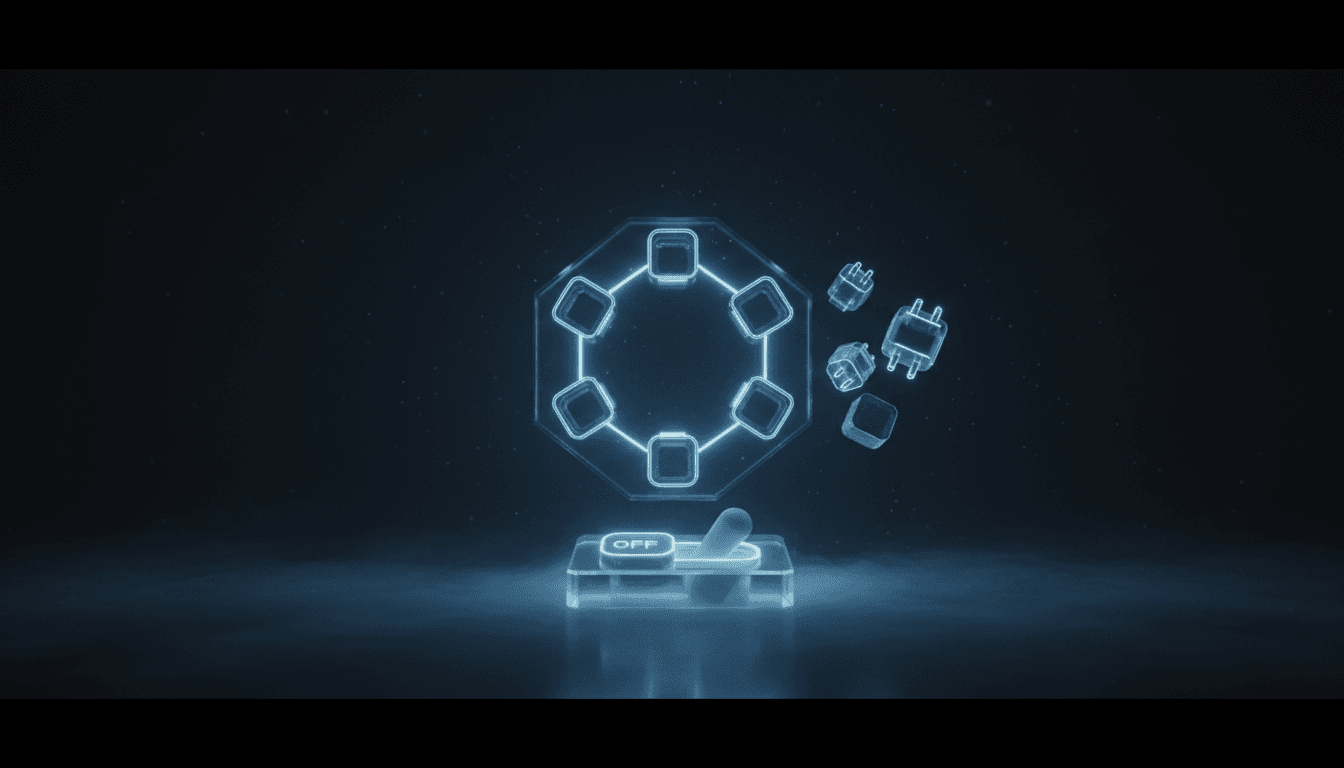
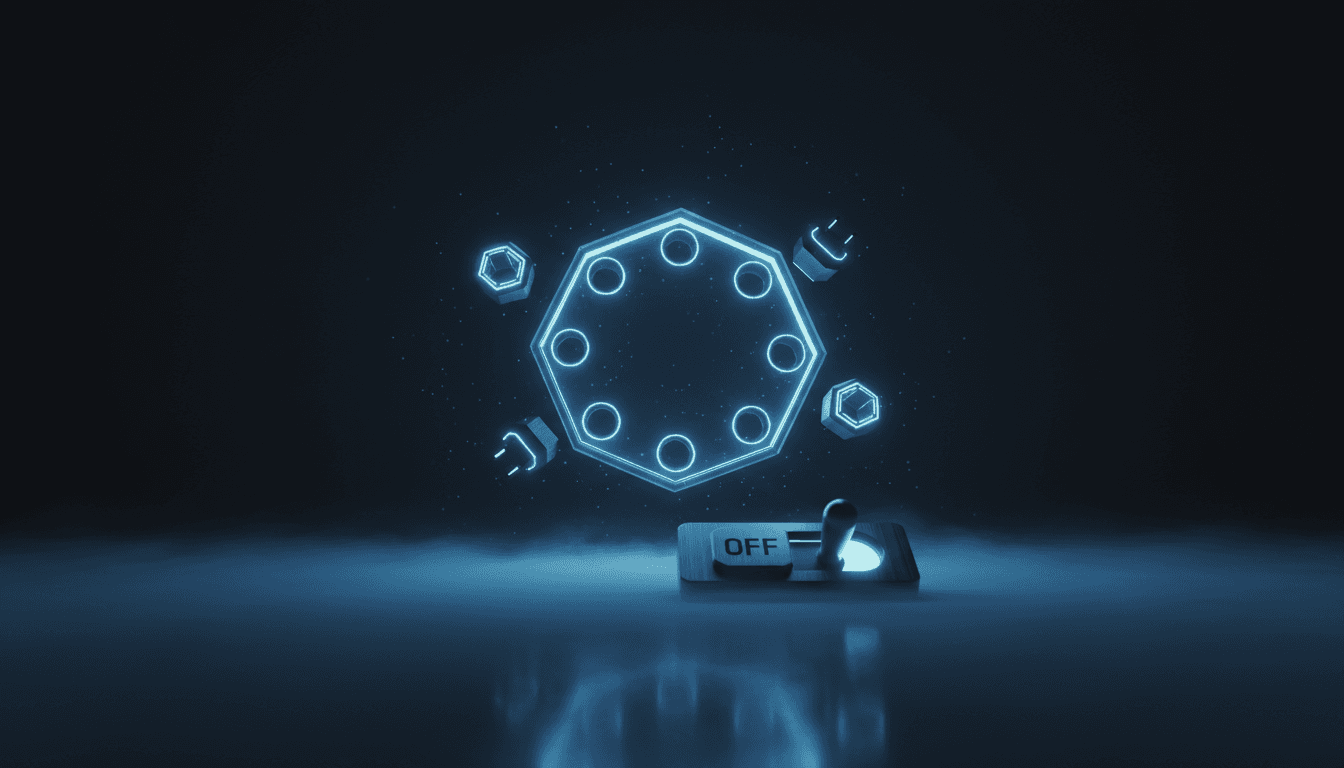
Align NPC blog series colors to the discipline code
The deep dives used off-system chip colors (violet/cyan). Recolor each
post to the discipline its content belongs to, matching the existing
convention (AI post emerald, pipeline/debug post blue):

- scoring -> emerald (AI Engineering)
- bugs    -> blue (Software Engineering), like pipeline-ghosting
- dashboard -> amber (Forward-Deployed Engineering), tag "Frontend"
- hub + architecture already correct (emerald / blue)

Regenerate the three mismatched hero images with matching accents.

diff --git a/src/pages/posts/npc-coach-dashboard.md b/src/pages/posts/npc-coach-dashboard.md
@@ -5,12 +5,12 @@ layout: ../../layouts/PostLayout.astro
 description: "Eight surfaces behind Google sign-in: a live pipeline stepper, the scoring math on the screen instead of hidden in the model, and a rubric you can edit in the browser. The features real reports demanded, not the spec."
 img_path: "/npc-coach-dashboard.png"
 img_alt: "Coaching dashboard — a call list with score bands, hard-gate flags, and a per-criterion breakdown"
-tag: "Engineering"
-tone: "cyan"
+tag: "Frontend"
+tone: "amber"
 stats:
   - value: "23"
     label: "API endpoints behind one domain-locked React app"
-    tone: "cyan"
+    tone: "amber"
   - value: "8 surfaces"
     label: "sign-in, dashboard, all calls, detail, submission, stats, analytics, settings"
     tone: "blue"
@@ -44,7 +44,7 @@ It opens with the identity and metadata, then a **live pipeline stepper** — In
 - A **score-breakdown panel** that lays out the three buckets (rapport 40%, classification 40%, scheduling 20%) as bars, then the weighted sum and the final number. The math is on the screen, not hidden in the model.
 - **Each of the six criteria** with its score out of 10, a color-coded bar, the model's rationale, the verbatim quote it cited from the transcript, and a one-line coaching note.
 
-<div class="stat-callout stat-cyan">
+<div class="stat-callout stat-amber">
   <div class="stat-value">every judgment, a quote</div>
   <div class="stat-label">A coach doesn't just see the number — they see the exact moment in the transcript that earned it. The coaching is grounded in something the coordinator already remembers.</div>
 </div>

diff --git a/src/pages/posts/npc-coach-scoring.md b/src/pages/posts/npc-coach-scoring.md
@@ -6,14 +6,14 @@ description: "Six criteria, three hard gates, a patient-safety override, and a 4
 img_path: "/npc-coach-scoring.png"
 img_alt: "Call scoring breakdown — six criteria rolling into three weighted buckets and a final number"
 tag: "MLOps"
-tone: "violet"
+tone: "emerald"
 stats:
   - value: "40 / 40 / 20"
     label: "rapport / classification / scheduling weighting"
-    tone: "violet"
+    tone: "emerald"
   - value: "6 + 3 + 1"
     label: "criteria, hard gates, patient-urgency override"
-    tone: "emerald"
+    tone: "blue"
   - value: "84 + flag"
     label: "a call can score 84 and still fail a non-negotiable"
     tone: "amber"

diff --git a/src/pages/posts/npc-coach-bugs.md b/src/pages/posts/npc-coach-bugs.md
@@ -6,7 +6,7 @@ description: "A wheel that passed a thousand tests and still failed to deploy. 4
 img_path: "/npc-coach-bugs.png"
 img_alt: "A green test gate next to a red production failure — the gap between code that runs and code that ships"
 tag: "Process"
-tone: "amber"
+tone: "blue"
 stats:
   - value: "1,156 green"
     label: "tests that still missed the packaging break and the 40% drop-out"
